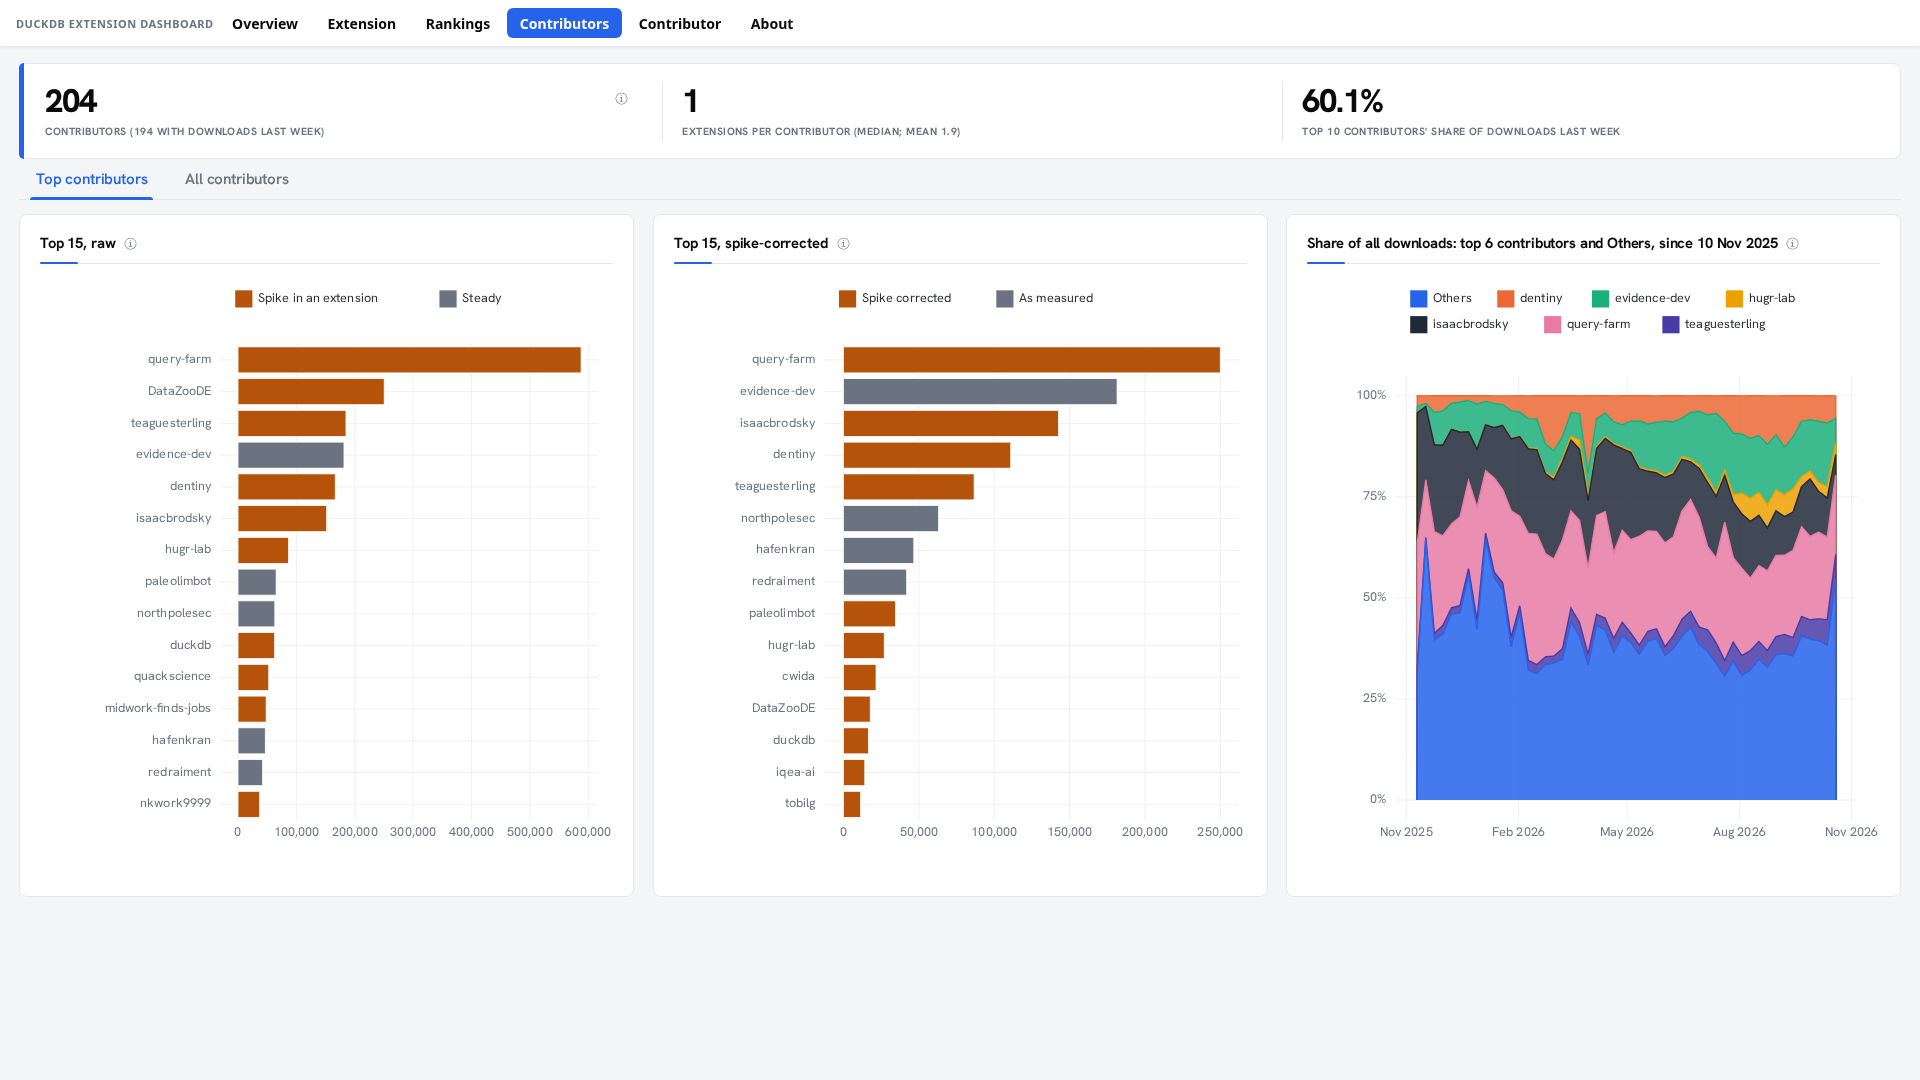
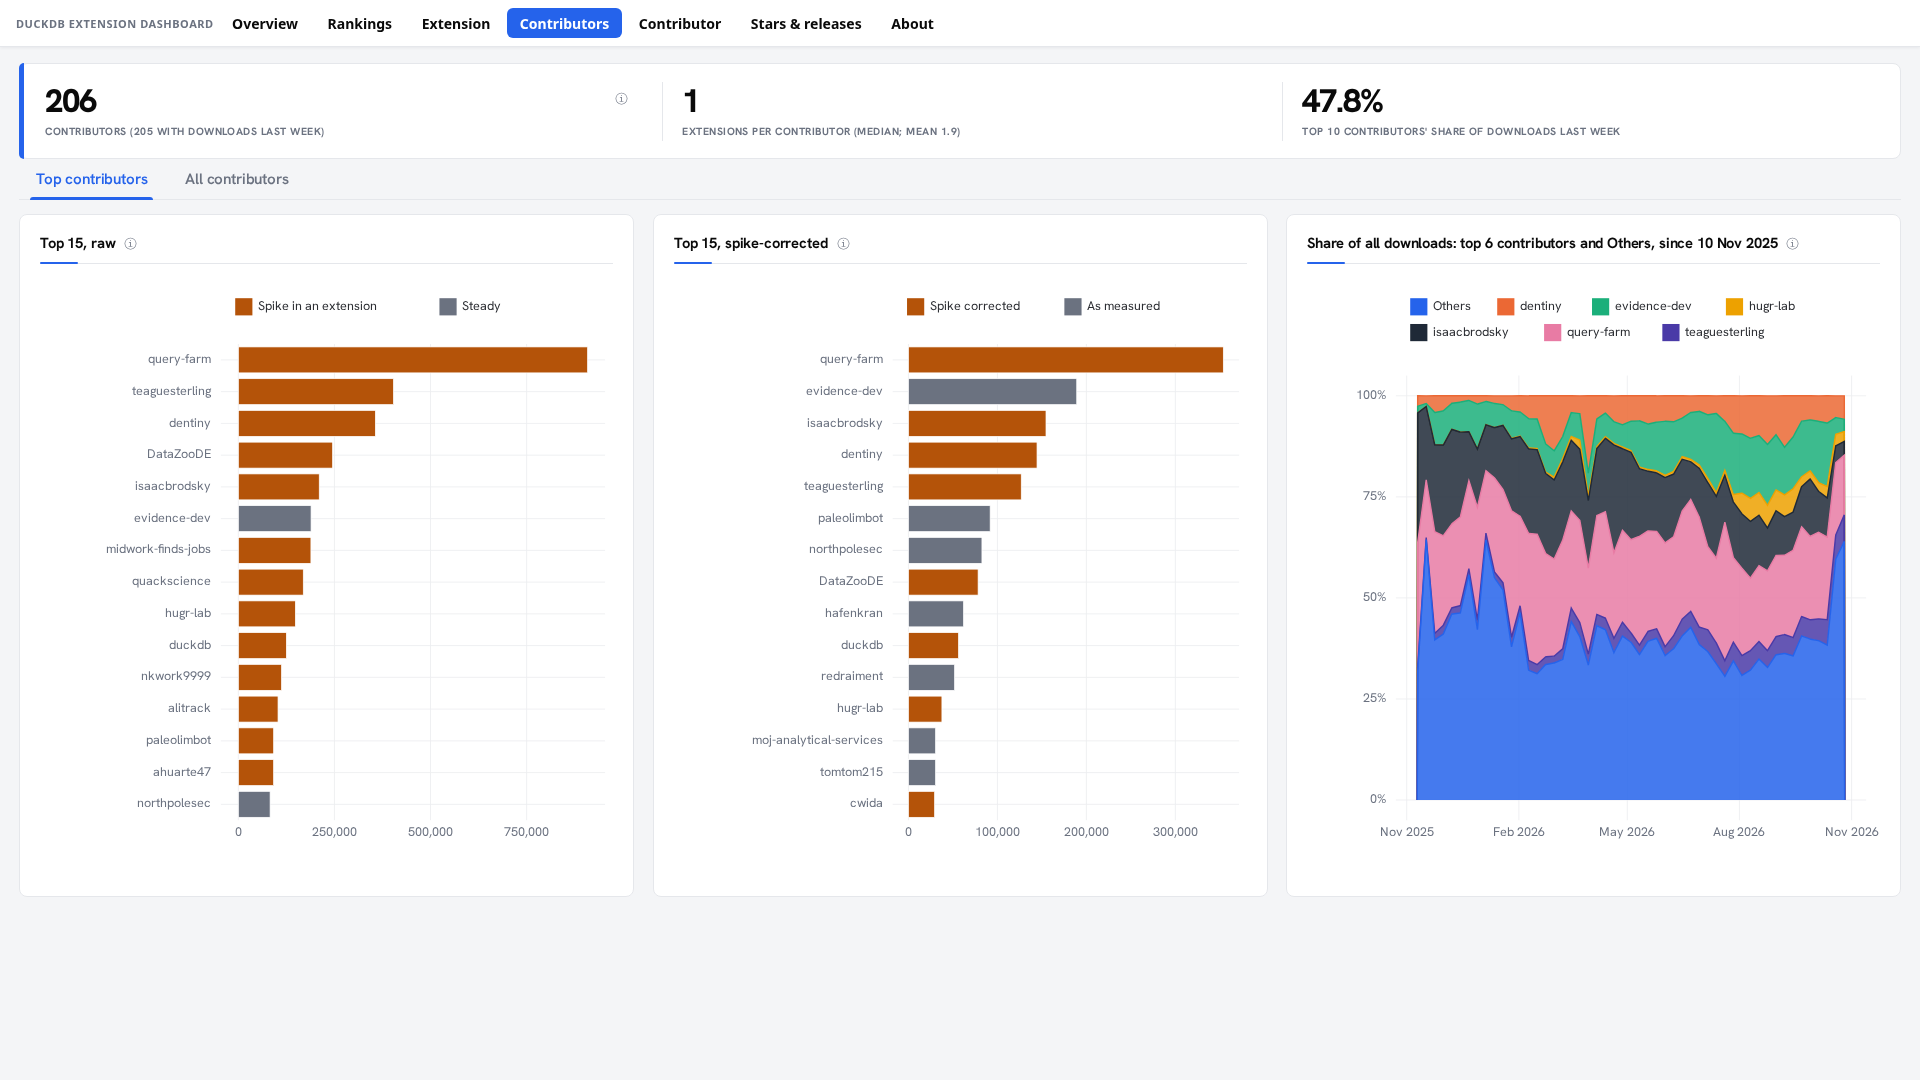
README: current numbers, Rankings bullet, new sources and build check, fresh screenshots (+ Rankings, Stars & releases)

diff --git a/README.md b/README.md
@@ -11,14 +11,15 @@
 [![built with anofox-visualization](https://img.shields.io/badge/built_with-anofox--visualization-0a0a0a)](https://github.com/DataZooDE/anofox-visualization)
 [![license: MIT](https://img.shields.io/badge/license-MIT-green)](LICENSE)
 
-<a href="https://datazoode.github.io/duckdb-extension-dashboard/"><img src="docs/overview.png" alt="The Overview: weekly downloads of all DuckDB community extensions with DuckDB releases marked, the number of extensions over time, the top 15, the biggest movers and the newcomers" width="100%"></a>
+<a href="https://datazoode.github.io/duckdb-extension-dashboard/"><img src="docs/overview.png" alt="The Overview: weekly downloads of all DuckDB community extensions with DuckDB releases marked, the number of extensions over time, the top 15, the biggest movers with their maintenance status, and the newcomers" width="100%"></a>
 
 </div>
 
 ## What you get
 
+- **The whole ecosystem at a glance:** over a million installs a week across nearly 400 extensions, with every DuckDB release marked on the timeline.
 - **Community vs core:** DuckDB's own extensions (httpfs, json, …) next to the community ones, week by week; community is about a tenth of all extension downloads and grows faster.
-- **The whole ecosystem at a glance:** about 3 million installs a week across more than 370 extensions, with every DuckDB release marked on the timeline.
+- **Every extension ranked:** search by name or description, filter by contributor, see the trend, stars, releases and maintenance status (still built for the newest DuckDB?), and a Trending tab with the biggest risers.
 - **Any extension in depth:** weekly downloads with the extension's own releases marked, rank over time, share of all installs, a maintenance card (built for the current DuckDB? last commit, last release, open issues), its neighbours in the ranking, and a side-by-side comparison with any other extension. Pick one from the dropdown, live in your browser.
 - **Who builds DuckDB's extensions:** more than 200 contributors, ranked, with the top 15 shown raw and spike-corrected side by side.
 - **Stars vs downloads:** every extension repo's GitHub stars against its usage. Stars explain only about a tenth of the spread in downloads, and the page lists the extensions used far more, or far less, than their stars suggest.
@@ -28,7 +29,11 @@
 
 <table>
 <tr>
-<td width="50%"><a href="https://datazoode.github.io/duckdb-extension-dashboard/d/extension/?v.extension=anofox_forecast"><img src="docs/extension.png" alt="One extension: weekly downloads with DuckDB releases and spikes, rank and share over time"></a><br><sub><b>Extension</b>: one extension, live, picked from a dropdown</sub></td>
+<td width="50%"><a href="https://datazoode.github.io/duckdb-extension-dashboard/d/rankings/"><img src="docs/rankings.png" alt="Rankings: every extension with trend, maintenance, stars and releases, searchable"></a><br><sub><b>Rankings</b>: every extension, searchable, with trend and maintenance</sub></td>
+<td width="50%"><a href="https://datazoode.github.io/duckdb-extension-dashboard/d/extension/?v.extension=anofox_forecast"><img src="docs/extension.png" alt="One extension: weekly downloads with DuckDB releases, spikes and its own releases, rank and share over time, maintenance card"></a><br><sub><b>Extension</b>: one extension, live, picked from a dropdown, comparable with any other</sub></td>
+</tr>
+<tr>
+<td width="50%"><a href="https://datazoode.github.io/duckdb-extension-dashboard/d/stars/"><img src="docs/stars.png" alt="Stars and releases: GitHub stars against downloads with a log-log fit, and the outliers"></a><br><sub><b>Stars &amp; releases</b>: do stars and releases go with downloads?</sub></td>
 <td width="50%"><a href="https://datazoode.github.io/duckdb-extension-dashboard/d/contributors/"><img src="docs/contributors.png" alt="Contributors: top 15 raw and spike-corrected, share over time"></a><br><sub><b>Contributors</b>: who builds the ecosystem, raw vs spike-corrected</sub></td>
 </tr>
 </table>
@@ -53,10 +58,11 @@ columns with a role (`downloads::LINECHART`, `'Top 15'::TITLE`, …), rendered b
 
 ```mermaid
 flowchart LR
-  A["duckdb.org<br/>weekly download JSON"] --> F
-  B["duckdb/community-extensions<br/>description.yml"] --> F
+  A["duckdb.org<br/>weekly download JSON<br/>(community + core)"] --> F
+  B["duckdb/community-extensions<br/>description.yml + history"] --> F
   C["duckdb/duckdb<br/>releases"] --> F
-  G["GitHub API<br/>stars per repo"] --> F
+  G["GitHub API<br/>stars, issues, commits"] --> F
+  H["extension binaries<br/>built for newest DuckDB?"] --> F
   F["fetch.sh<br/>+ spike correction<br/>(anofox-forecast)"] --> S[("parquet snapshot<br/>committed daily")]
   S --> K{"strict check<br/>+ smoke test"}
   K --> P["GitHub Pages:<br/>anofox-visualization app<br/>(DuckDB-Wasm, pinned)"]
@@ -68,10 +74,10 @@ from the pinned release, next to the parquet snapshot. Your browser runs each
 dashboard's SQL in DuckDB-Wasm, so the pickers re-query instantly.
 [`update.yml`](.github/workflows/update.yml) runs daily at 06:30 UTC:
 
-1. **Fetch:** download the metrics, extension metadata and release history, DuckDB releases and GitHub stars, and add the spike correction.
+1. **Fetch:** download the community and core metrics, the extension metadata and release history, DuckDB releases and the GitHub numbers, check which extensions are built for the newest DuckDB, and add the spike correction.
 2. **Check:** every dashboard passes `dashboard --check --strict` and a locked-server smoke test on the fresh data.
 3. **Commit:** the snapshot is committed if it changed, so the git log doubles as the data's history.
-4. **Publish:** build the app from the pinned tag and deploy the site.
+4. **Publish:** build the site with the pinned release's `dashboard --site` (its prebuilt app, the dashboards and the data) and deploy it.
 
 Any failure stops the run before anything is published, so the live site keeps the last good data.
 
@@ -85,6 +91,7 @@ Any failure stops the run before anything is published, so the live site keeps t
 | Extension releases | the history of each `description.yml` in [duckdb/community-extensions](https://github.com/duckdb/community-extensions) | a release = a new pinned commit (`repo.ref`) merged on main; DuckDB-team bulk updates are kept apart |
 | DuckDB releases | [duckdb/duckdb](https://github.com/duckdb/duckdb/releases) | prereleases excluded |
 | GitHub stars and maintenance | GitHub's GraphQL API, each extension's `repo.github` (stars, forks, open issues, last commit) | one snapshot per daily fetch, from 2026-10-30 (GitHub has no star history for other people's repos) |
+| Builds | `community-extensions.duckdb.org/<version>/linux_amd64/<extension>.duckdb_extension.gz` | is each extension built for the newest DuckDB release and the newest of the line before (a HEAD request each) |
 
 Things to keep in mind:
 - Until **2025-11-10** the site listed only about the top 50 extensions.
@@ -101,6 +108,10 @@ extension-downloads/scripts/ci.sh                          # snapshot -> data/, 
 scripts/serve-locked.sh --blueprint extension-downloads --port 8828   # a locked server: http://127.0.0.1:8828/
 extension-downloads/scripts/fetch.sh --out extension-downloads/demo   # refresh the data from the live sources
 ```
+
+Refreshing the data needs `git`, Python with PyYAML, and a GitHub token for
+the stars (`GH_TOKEN`, or a `gh auth login`); the checks and the preview run
+from the committed snapshot and need none of them.
 
 The published site is anofox-visualization's own `dashboard --site` output (the
 pinned release's prebuilt web app, the dashboards and the data), built by
